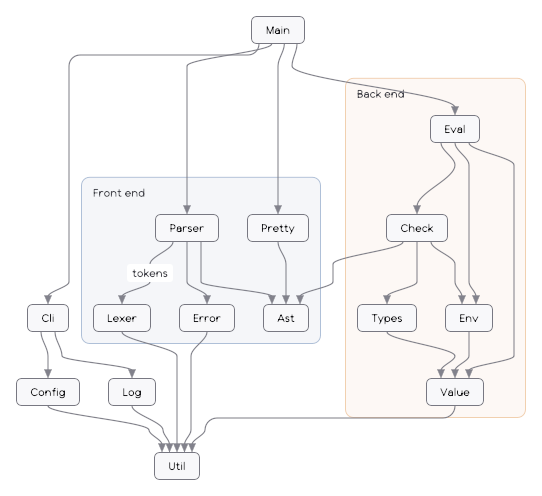
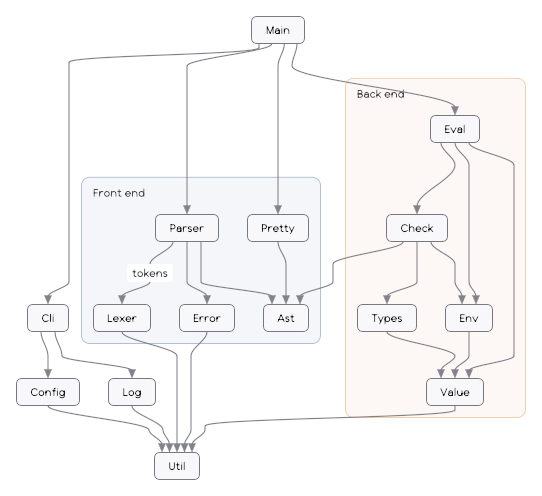
Graph layout: a step that goes far sideways is one smooth curve at a height of its own; edges leave and enter their layers straight

diff --git a/docs/DESIGN.md b/docs/DESIGN.md
@@ -224,11 +224,11 @@ spans of the edges, at most `E (L - 1)`; `C` clusters):
    (a 3000-node graph finishes about 1800 exchanges).
 6. *Edges*: an edge passes a dummy node straight along the layers through the band of that
    layer's boxes, and crosses a gap as a cubic leaving and entering perpendicular to the layers;
-   a step that goes sideways more than eight times the gap is drawn instead as a horizontal run
-   inside the gap with rounded corners (of radius up to 24 pixels), on a track of its own (runs going right lie below the
-   overlapping runs going right that start further right, so their descents do not cross; runs
-   going left likewise), and a gap with many runs grows, up to three times, to keep them three
-   pixels apart; or horizontal and vertical segments with rounded corners on the same tracks
+   a step that goes sideways more than eight times the gap is one cubic too, whose long sideways
+   stretch runs at the height of a track of its own (the tracks of steps going right lie below
+   those of the overlapping steps going right that start further right, so that their descents
+   do not cross; steps going left likewise), and a gap with many such steps grows, up to three
+   times, to keep them three pixels apart; or horizontal and vertical segments with rounded corners on the same tracks
    (`Routing.orthogonal`). Ends are spread along the node's side in the order of the other ends;
    arrowheads aligned with the end of the curve; labels on plates of the page colour at the middle
    of the edge.
@@ -327,29 +327,29 @@ file (including its start).
 
 | Graph | Nodes, edges | Time PILean / dot (ms) | Crossings | Edge length | Area | Cluster violations | Edges passing a node | Edges entering a foreign cluster |
 |---|---|---|---|---|---|---|---|---|
-| own imports | 92, 205 | 399 / 40 | 0.98 | 0.93 | 0.75 | – | 0 | – |
-| project imports | 88, 173 | 178 / 35 | 0.75 | 0.93 | 0.77 | – | 0 | – |
-| blueprint A | 58, 146 | 226 / 27 | 1.03 | 0.85 | 0.70 | – | 0 | – |
-| blueprint A by chapter | 58, 146 | 88 / 63 | 1.33 | 1.05 | 0.85 | 0 | 0 | 8 |
-| blueprint A by chapter and section | 58, 146 | 93 / 59 | 1.25 | 1.67 | 1.09 | 0 | 0 | 64 |
-| blueprint B | 69, 111 | 72 / 20 | 1.10 | 1.08 | 0.77 | – | 0 | – |
-| blueprint B by chapter | 69, 111 | 44 / 55 | 1.11 | 1.56 | 1.20 | 0 | 0 | 25 |
-| module graph | 800, 1077 | 1858 / 513 | 1.25 | 0.99 | 0.64 | – | 0 | – |
-| module graph | 3000, 4019 | 7433 / 3545 | 0.87 | 0.84 | 1.29 | – | 0 | – |
-| dense random | 120, 387 | 428 / 48 | 1.05 | 0.75 | 0.34 | – | 0 | – |
-| sparse random | 300, 325 | 273 / 34 | 0.92 | 1.12 | 0.50 | – | 0 | – |
-| tree | 127, 126 | 7 / 22 | – (0 / 0) | 1.31 | 1.00 | – | 0 | – |
+| own imports | 92, 205 | 273 / 40 | 1.04 | 0.90 | 0.75 | – | 0 | – |
+| project imports | 88, 173 | 132 / 35 | 0.75 | 0.93 | 0.77 | – | 0 | – |
+| blueprint A | 58, 146 | 159 / 27 | 1.01 | 0.85 | 0.70 | – | 0 | – |
+| blueprint A by chapter | 58, 146 | 88 / 63 | 1.29 | 1.04 | 0.85 | 0 | 0 | 8 |
+| blueprint A by chapter and section | 58, 146 | 90 / 59 | 1.19 | 1.64 | 1.09 | 0 | 0 | 69 |
+| blueprint B | 69, 111 | 52 / 20 | 1.07 | 1.16 | 0.77 | – | 0 | – |
+| blueprint B by chapter | 69, 111 | 43 / 55 | 1.10 | 1.54 | 1.20 | 0 | 0 | 26 |
+| module graph | 800, 1077 | 1432 / 513 | 1.23 | 0.96 | 0.64 | – | 0 | – |
+| module graph | 3000, 4019 | 6070 / 3545 | 0.86 | 0.82 | 1.29 | – | 0 | – |
+| dense random | 120, 387 | 304 / 48 | 1.05 | 0.75 | 0.34 | – | 0 | – |
+| sparse random | 300, 325 | 193 / 34 | 0.92 | 1.11 | 0.50 | – | 0 | – |
+| tree | 127, 126 | 6 / 22 | – (0 / 0) | 1.30 | 1.00 | – | 0 | – |
 | chain | 80, 99 | 7 / 18 | – (0 / 0) | 1.15 | 1.14 | – | 0 | – |
-| code site C | 2866, 5516 | 844 / 1654 | 1.29 | 3.36 | 1.63 | 0 | 0 | 5455 |
-| code site C, its modules | 85, 159 | 263 / 34 | 1.13 | 1.03 | 0.75 | – | 0 | – |
-| code site C, its largest module | 561, 422 | 240 / 81 | 0.02 | 0.99 | 2.24 | 0 | 0 | 0 |
+| code site C | 2866, 5516 | 775 / 1654 | 1.26 | 3.35 | 1.63 | 0 | 0 | 5682 |
+| code site C, its modules | 85, 159 | 175 / 34 | 1.13 | 1.02 | 0.75 | – | 0 | – |
+| code site C, its largest module | 561, 422 | 148 / 81 | 0.02 | 0.98 | 2.24 | 0 | 0 | 0 |
 | neighbourhood, a node with 400 neighbours | 401, 400 | 13 / 33 | – (0 / 0) | 1.01 | 1.73 | – | 0 | – |
-| neighbourhood of 290 nodes | 290, 793 | 1723 / 165 | 0.87 | 0.85 | 1.20 | – | 0 | – |
-| neighbourhood of 150 nodes | 150, 468 | 941 / 156 | 0.78 | 0.71 | 0.71 | – | 0 | – |
-| neighbourhood of 50 nodes | 50, 152 | 260 / 30 | 0.98 | 0.90 | 0.76 | – | 0 | – |
-| neighbourhood of 46 nodes (1) | 46, 119 | 269 / 26 | 1.10 | 0.89 | 0.76 | – | 0 | – |
-| neighbourhood of 46 nodes (2) | 46, 72 | 46 / 21 | 1.03 | 1.19 | 0.94 | – | 0 | – |
-| neighbourhood of 34 nodes | 34, 93 | 124 / 23 | 0.92 | 0.97 | 0.68 | – | 0 | – |
+| neighbourhood of 290 nodes | 290, 793 | 1564 / 165 | 0.86 | 0.82 | 1.20 | – | 0 | – |
+| neighbourhood of 150 nodes | 150, 468 | 931 / 156 | 0.77 | 0.69 | 0.71 | – | 0 | – |
+| neighbourhood of 50 nodes | 50, 152 | 154 / 30 | 0.96 | 0.89 | 0.76 | – | 0 | – |
+| neighbourhood of 46 nodes (1) | 46, 119 | 120 / 26 | 1.09 | 0.88 | 0.76 | – | 0 | – |
+| neighbourhood of 46 nodes (2) | 46, 72 | 23 / 21 | 0.95 | 1.19 | 0.94 | – | 0 | – |
+| neighbourhood of 34 nodes | 34, 93 | 74 / 23 | 0.92 | 0.96 | 0.68 | – | 0 | – |
 
 Packed (`layoutPacked` against `dot` with `pack=true`; measured for code site C and its largest
 module): code site C has 1.15 times `dot`'s crossings, 1.66 times its edge length and 0.41 times
